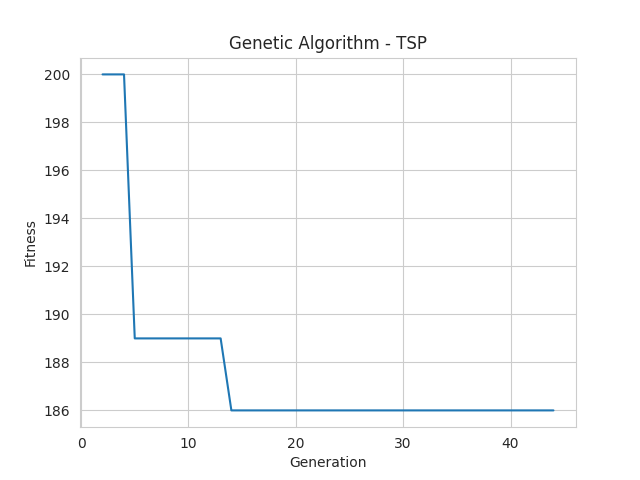
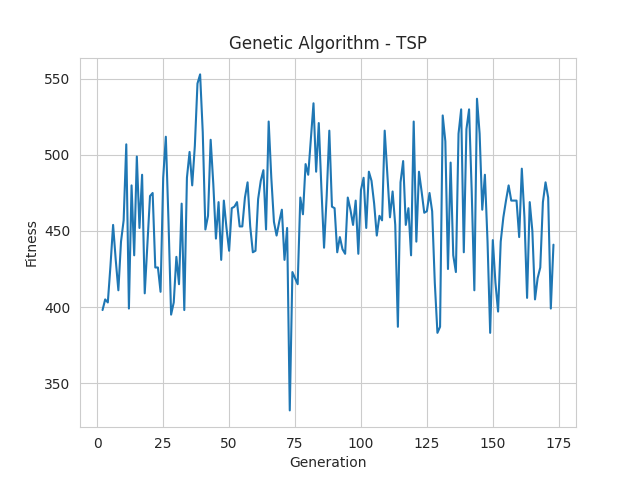
Correction in CitiesGraph and live fitness function plot

diff --git a/GeneticAlgorithm.py b/GeneticAlgorithm.py
@@ -11,13 +11,19 @@ from CitiesGraph import CitiesGraph
 
 class GeneticAlgorithm:
 
-    def __init__(self, population_size=10, mutation_chance=0.05, max_generations=1000, max_no_improvement=25, number_parents=2, cities_controller=CitiesGraph()):
+    def __init__(self, population_size=10, mutation_chance=0.05, max_generations=1000, max_no_improvement=25, number_parents=2,selection_mode_id=0, cities_controller=CitiesGraph(), fit_mode="create", start="A"):
 
         # Cities config
 
         self.cities_controller = cities_controller
-        self.cities_graph = self.cities_controller.create()
-        self.start_city = self.cities_controller.getStart()
+
+        if fit_mode == "create":
+            self.cities_graph = self.cities_controller.create()
+            self.start_city = self.cities_controller.getStart()
+        else:
+            self.cities_graph = self.cities_controller.load()
+            self.start_city = start.upper()
+
         self.cities = self.cities_controller.cities
         self.available_cities = self.cities_controller.cities.copy()
 
@@ -49,10 +55,11 @@ class GeneticAlgorithm:
         # Fitting config
 
         selection_modes = {
-            0: "tournament"
+            0: "tournament",
+            1: "elitism"
         }
 
-        self.parent_selection_mode = selection_modes[0]
+        self.parent_selection_mode = selection_modes[selection_mode_id]
 
         self.max_no_improvement = max_no_improvement
         self.max_generations = max_generations
@@ -82,17 +89,25 @@ class GeneticAlgorithm:
             self.population += children
 
             self.history["Generation"].append(self.generation_counter)
-            self.history["Fitness"].append(self.best_solution[2])
+            self.history["Fitness"].append(self.population_eval[0][2])
+
+            sns.set_style("whitegrid")
+            plt.title("Genetic Algorithm - TSP")
+            sns.lineplot(data=self.history, y="Fitness", x="Generation")
+            plt.plot()
+            plt.draw()
+            plt.pause(0.0001)
+            plt.clf()
 
         print("\n\n Stopping fitting")
         print("\tBest solution [IND-{}] {} - Travel Distance {}".format(self.best_solution[0],
                                                                                   self.best_solution[1],
                                                                                   self.best_solution[2]))
 
-        results = pd.DataFrame.from_dict(data=self.history)
+
         sns.set_style("whitegrid")
         plt.title("Genetic Algorithm - TSP")
-        sns.lineplot(data=results, y="Fitness", x="Generation")
+        sns.lineplot(data=self.history, y="Fitness", x="Generation")
         plt.plot()
         plt.show()
 
@@ -103,10 +118,13 @@ class GeneticAlgorithm:
 
         if self.parent_selection_mode == "tournament":
             while len(parents) < self.number_parents:
-                t = random.sample(self.population_eval, int(self.population_size*0.6))
+                t = random.sample(self.population_eval, int(self.population_size*0.4))
                 p = min(t, key=lambda x: x[2])
                 if p not in parents:
                     parents.append(p)
+
+        elif self.parent_selection_mode == "elitism":
+            parents = self.population_eval[:self.number_parents]
 
         print(f"\tParents selected by {self.parent_selection_mode.upper()}:")
         temp_to_remove = []
@@ -129,7 +147,7 @@ class GeneticAlgorithm:
 
             if random.random() <= self.mutation_chance:
 
-                number_of_mutations = random.randint(1, int(0.5*len(self.available_cities)))
+                number_of_mutations = random.randint(1, int(0.6*len(self.available_cities)))
                 available_index = range(len(self.available_cities))
 
                 for i in range(number_of_mutations):

diff --git a/CitiesGraph.py b/CitiesGraph.py
@@ -3,8 +3,6 @@ import random
 import pandas as pd
 import sys
 
-random.seed(2)
-np.random.seed(3)
 
 class CitiesGraph:
 
@@ -18,11 +16,27 @@ class CitiesGraph:
             sys.exit()
 
     def create(self):
-        graph = np.random.randint(self.size**2, size=(self.size, self.size)) + 1
-        np.fill_diagonal(graph, 0)
+        graph_up = np.random.randint(self.size**2, size=(self.size, self.size)) + 1
+        np.fill_diagonal(graph_up, 0)
+
+
+        for i in range(self.size):
+            for j in range(self.size):
+                if i < j:
+                    graph_up[i, j] = 0
+
+        graph_down = graph_up.T
+
+
+        graph = graph_up + graph_down
+
         graph_df = pd.DataFrame(data=graph, index=self.cities, columns=self.cities)
+        graph_df.to_csv("./cities.csv")
 
         return graph_df
+
+    def load(self, path="./cities.csv"):
+        return pd.read_csv(path, index_col=0)
 
     def getStart(self):
         return random.choice(self.cities)

diff --git a/main.py b/main.py
@@ -7,18 +7,21 @@ from GeneticAlgorithm import GeneticAlgorithm
 # Travelling Salesman Problem - Genetic Algorithms
 # Author Agostinho Junior
 
-cities_controller = CitiesGraph(size=10)
+cities_controller = CitiesGraph(size=11)
+
 
 genetic_algorithm = GeneticAlgorithm(
     population_size=500,
     mutation_chance=0.05,
     max_generations=10000,
-    max_no_improvement=30,
-    number_parents=4,
-    cities_controller=cities_controller
+    max_no_improvement=100,
+    number_parents=50,
+    selection_mode_id=1, # 0 tournament 1 elitism
+    cities_controller=cities_controller,
+    fit_mode="load",
+    start="A"
 )
 
 genetic_algorithm.init_population()
 
 genetic_algorithm.run()
-
